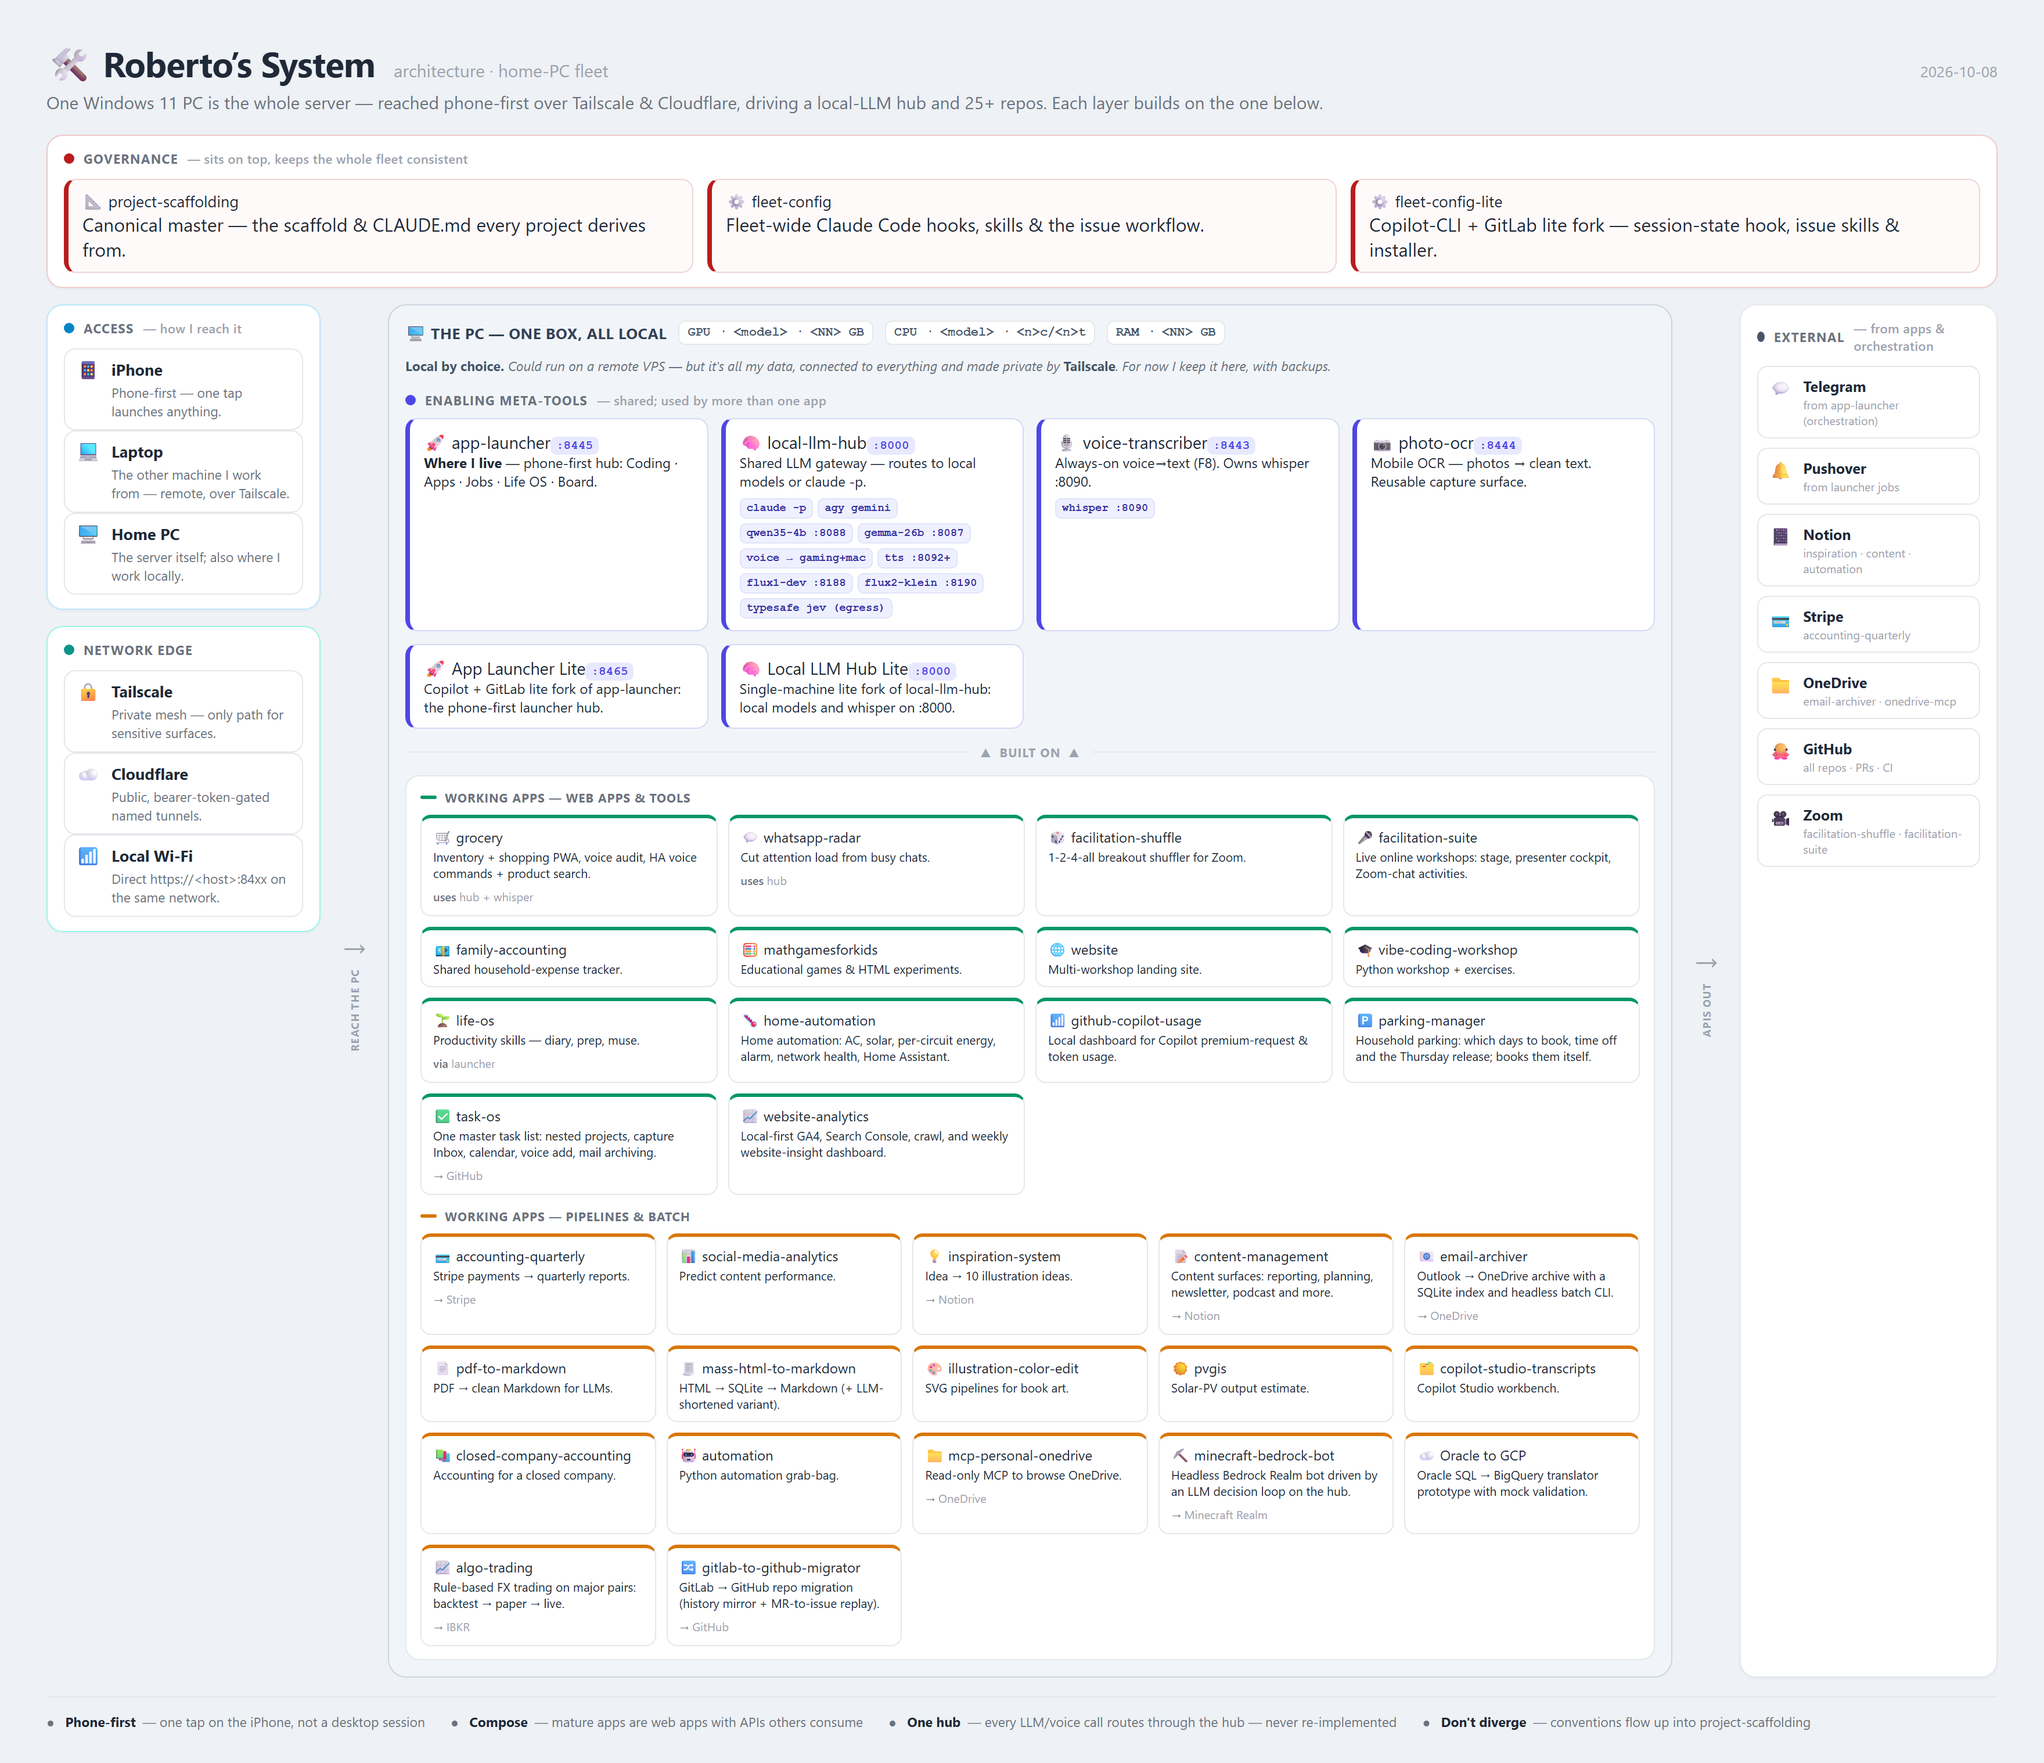
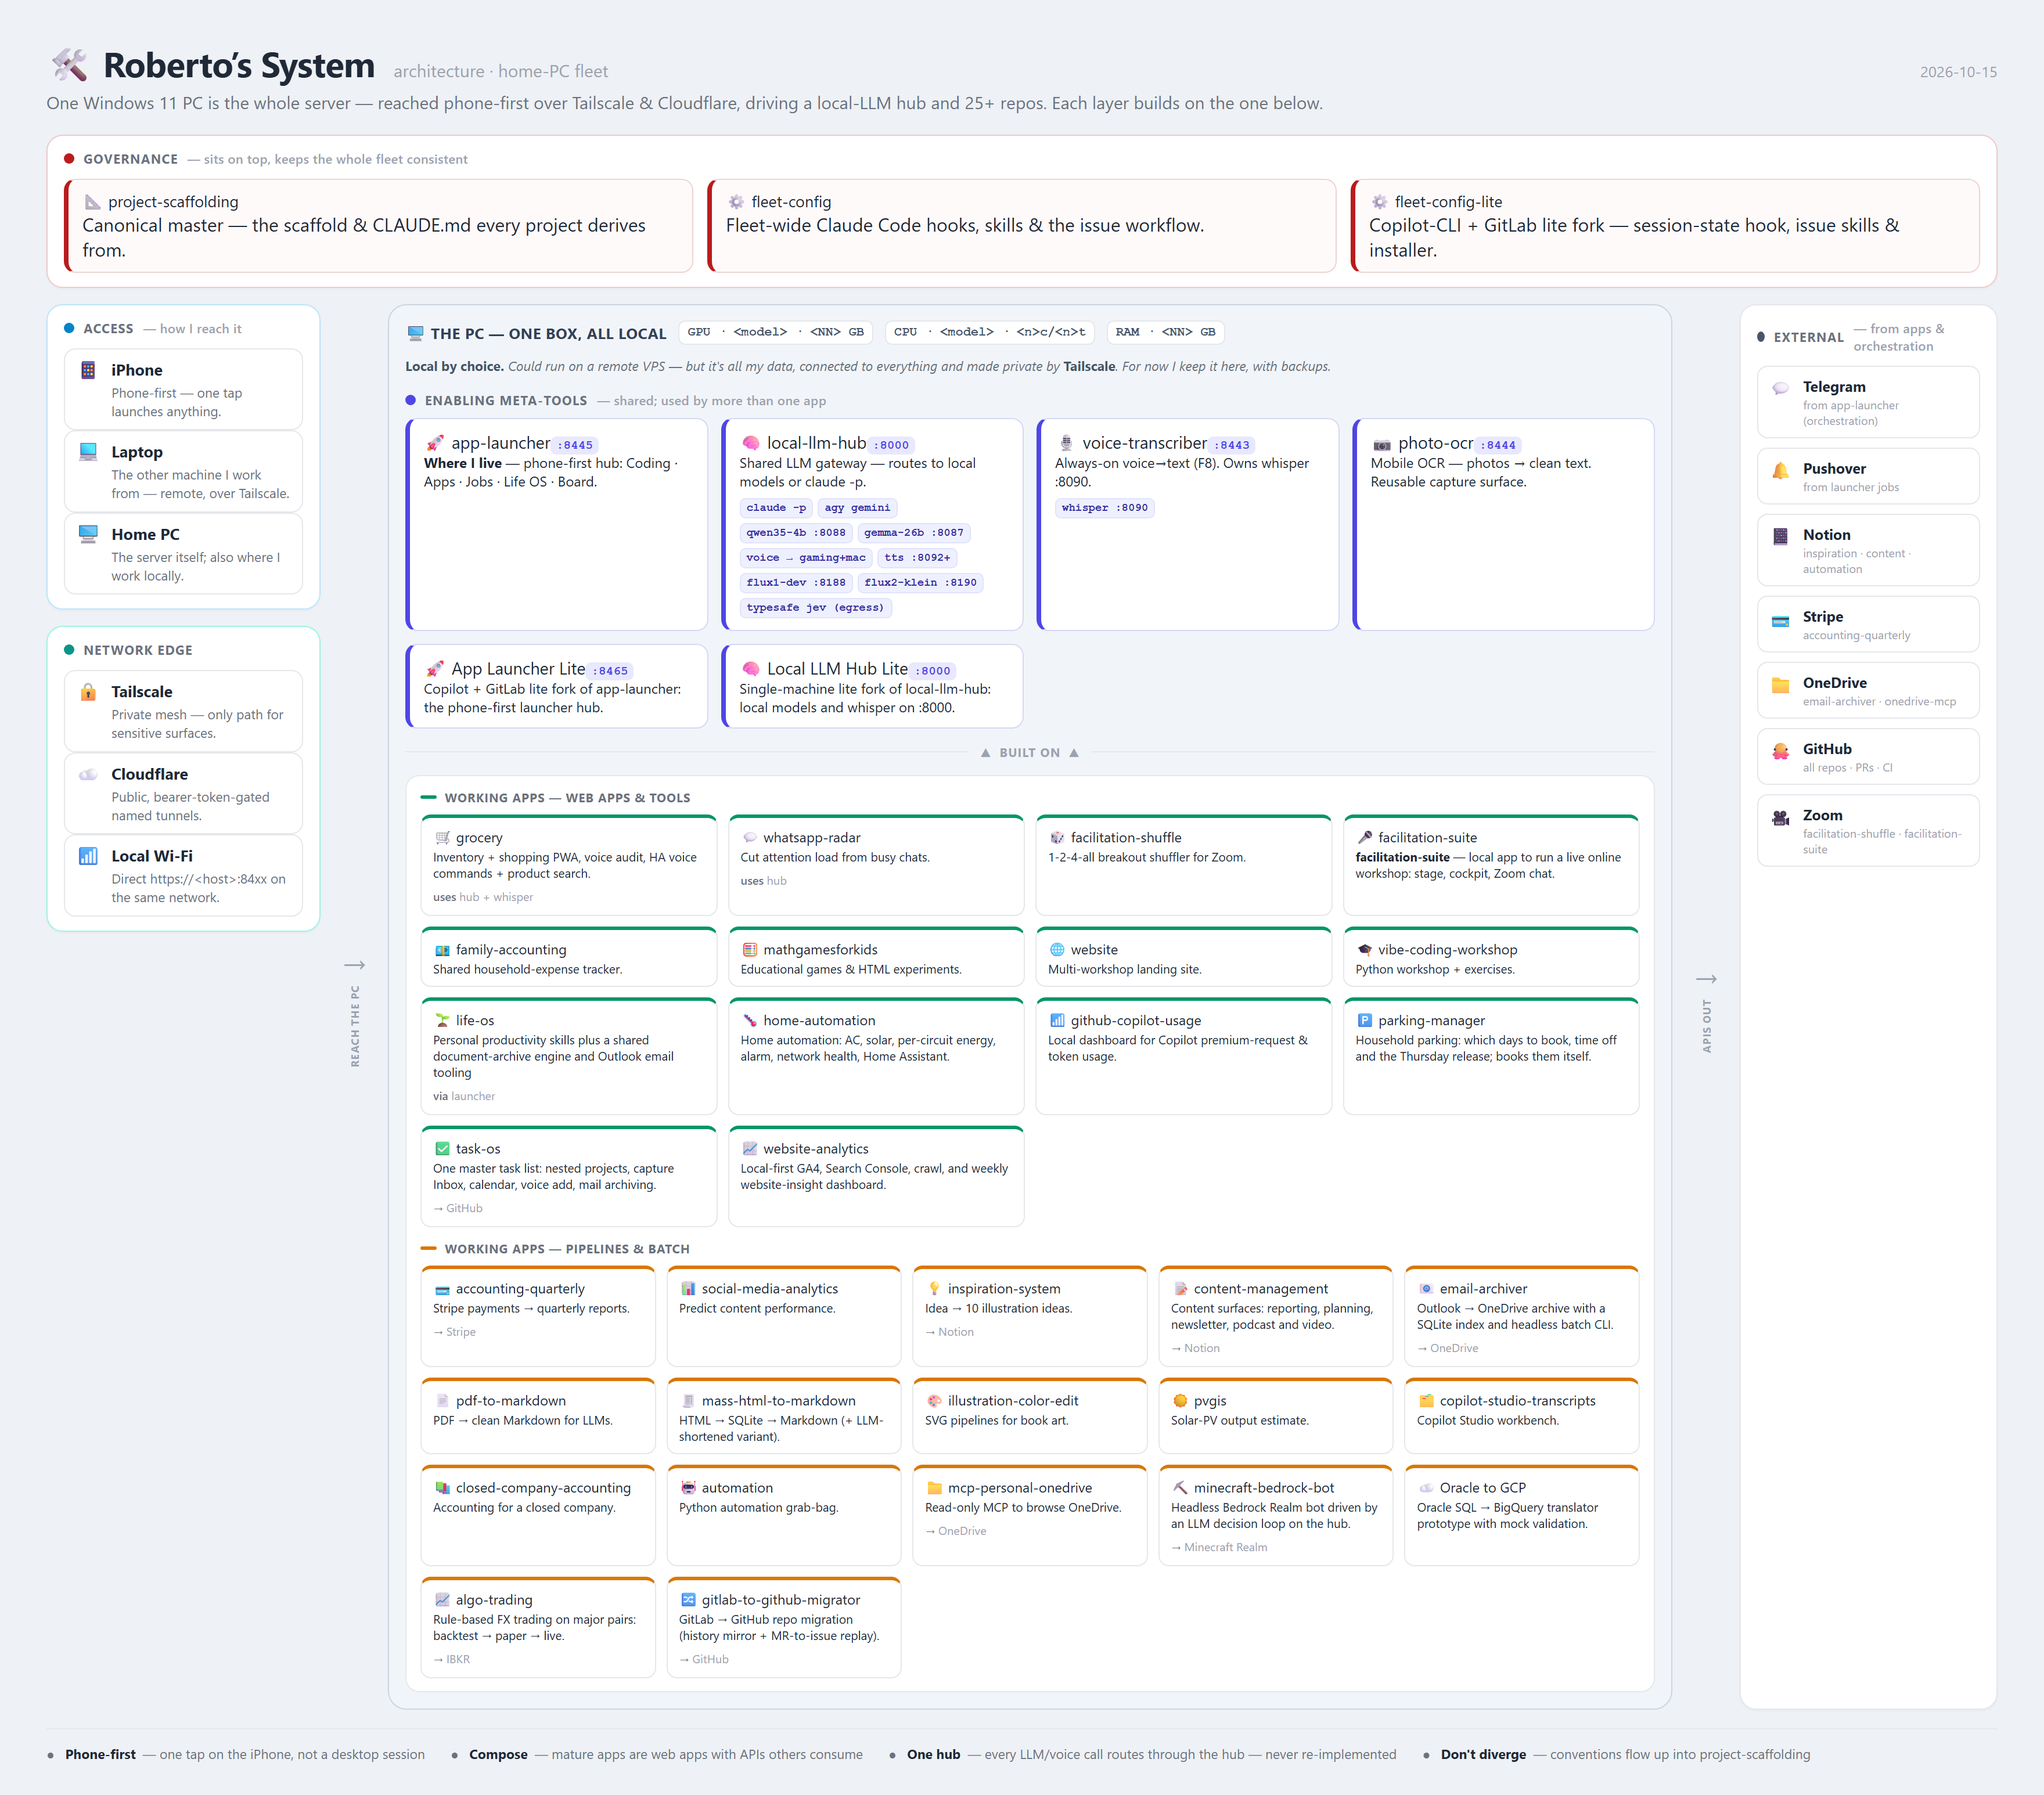
docs: refresh system map (2026-10-16)

diff --git a/architecture/fleet.data.js b/architecture/fleet.data.js
@@ -39,12 +39,12 @@ window.FLEET = {
     {"ic": "🛒", "nm": "grocery", "repo": "grocery-shopping-automation", "port": 8502, "ds": "Inventory + shopping PWA, voice audit, HA voice commands + product search.", "tag": ["uses", "hub + whisper"]},
     {"ic": "💬", "nm": "whatsapp-radar", "ds": "Cut attention load from busy chats.", "tag": ["uses", "hub"]},
     {"ic": "🎲", "nm": "facilitation-shuffle", "ds": "1-2-4-all breakout shuffler for Zoom."},
-    {"ic": "🎤", "nm": "facilitation-suite", "ds": "Live online workshops: stage, presenter cockpit, Zoom-chat activities."},
+    {"ic": "🎤", "nm": "facilitation-suite", "port": ":8449", "ds": "<b>facilitation-suite</b> — local app to run a live online workshop: stage, cockpit, Zoom chat.", "chips": ["public: cloudflared quiz.robertoferraro.net → :8451 /play"]},
     {"ic": "💶", "nm": "family-accounting", "ds": "Shared household-expense tracker."},
     {"ic": "🧮", "nm": "mathgamesforkids", "ds": "Educational games & HTML experiments."},
     {"ic": "🌐", "nm": "website", "ds": "Multi-workshop landing site."},
     {"ic": "🎓", "nm": "vibe-coding-workshop", "ds": "Python workshop + exercises."},
-    {"ic": "🌱", "nm": "life-os", "ds": "Productivity skills — diary, prep, muse.", "tag": ["via", "launcher"]},
+    {"ic": "🌱", "nm": "life-os", "ds": "Personal productivity skills plus a shared document-archive engine and Outlook email tooling", "tag": ["via", "launcher"]},
     {"ic": "🌡", "nm": "home-automation", "port": 8447, "ds": "Home automation: AC, solar, per-circuit energy, alarm, network health, Home Assistant.", "chips": ["FastAPI", "PWA", "MELCloud", "Modbus", "FusionSolar", "Athom", "Tuya", "HA", "Telegram"]},
     {"ic": "📶", "nm": "github-copilot-usage", "ds": "Local dashboard for Copilot premium-request &amp; token usage."},
     {"ic": "🅿", "nm": "parking-manager", "port": ":8450", "ds": "Household parking: which days to book, time off and the Thursday release; books them itself."},
@@ -55,7 +55,7 @@ window.FLEET = {
     {"ic": "💳", "nm": "accounting-quarterly", "ds": "Stripe payments → quarterly reports.", "tag": ["→", "Stripe"]},
     {"ic": "📊", "nm": "social-media-analytics", "ds": "Predict content performance."},
     {"ic": "💡", "nm": "inspiration-system", "ds": "Idea → 10 illustration ideas.", "tag": ["→", "Notion"]},
-    {"ic": "📝", "nm": "content-management", "ds": "Content surfaces: reporting, planning, newsletter, podcast and more.", "tag": ["→", "Notion"]},
+    {"ic": "📝", "nm": "content-management", "ds": "Content surfaces: reporting, planning, newsletter, podcast and video.", "tag": ["→", "Notion"]},
     {"ic": "📧", "nm": "email-archiver", "ds": "Outlook → OneDrive archive with a SQLite index and headless batch CLI.", "tag": ["→", "OneDrive"]},
     {"ic": "📄", "nm": "pdf-to-markdown", "ds": "PDF → clean Markdown for LLMs."},
     {"ic": "🧾", "nm": "mass-html-to-markdown", "ds": "HTML → SQLite → Markdown (+ LLM-shortened variant)."},
